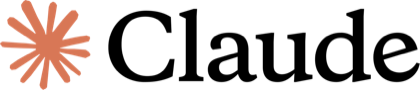
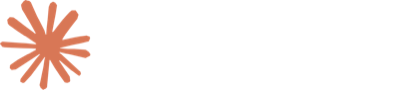
Partnerlogo's Indexworld en Uncanny in kleur
Uncanny: hun eigen donkere-grondversies. Claude en QuickBooks: merkkleur blijft, alleen zwarte letters wit. Sage in de huidige merkgroen.
Proef: eis 'partnerlogo's in kleur' rood op main (1cd990d), alles groen op deze tak.

Changed region(s): [[0.2476, 0.0889, 1.0, 0.9333]]

diff --git a/proposal/SamenEnVeilig.tsx b/proposal/SamenEnVeilig.tsx
@@ -51,7 +51,8 @@ const TEKST = {
 // 19 oktober 2026 (Marinus): "Graag bij Uncanny en Indexworld nog deze balkjes en partners duidelijk maken waarom het een
 // waardevolle toevoeging is om hun erbij te betrekken." De balkjes zijn hun eigen partnerrijen (indexworld.net "Our trusted
 // partners", uncannycs.com "Partnered with"; hun Odoo-, Shopify-, Salesforce- en Adobe-logo hebben het partnerniveau
-// al in het beeld, dus geen onderschrift); de cijfers staan zo op hun eigen homepage (nagelezen 19 oktober 2026).
+// al in het beeld, dus geen onderschrift). Marinus, zelfde avond: "Graag logo's gewoon in kleur." Dus de merkkleuren, met
+// alleen zwarte letters omgezet naar wit (Claude, QuickBooks) en de donkere-grondversies van Uncanny; de cijfers staan zo op hun eigen homepage (nagelezen 19 oktober 2026).
 const SAMEN = [
   {
     naam: "Indexworld", href: "https://indexworld.net", logo: "/images/home-header/indexworld.png", wit: true, product: "os",
@@ -59,10 +60,10 @@ const SAMEN = [
     tekst: "Indexworld is een Odoo-partner onder leiding van registeraccountants (CPA) in de VS. Zij zorgen dat je cijfers in het OS kloppen en halen je boekhouding veilig over uit QuickBooks of Sage.",
     cijfers: ["150+ klanten", "3 continenten", "Geleid door CPA's"],
     partners: [
-      { naam: "Claude", src: "/images/partners/samen/claude.png", wit: true },
-      { naam: "Odoo", src: "/images/partners/samen/odoo-partner.webp", wit: true, sub: "Partner" },
-      { naam: "Sage", src: "/images/partners/samen/sage.svg", wit: true },
-      { naam: "QuickBooks", src: "/images/partners/samen/quickbooks.webp", wit: true },
+      { naam: "Claude", src: "/images/partners/samen/claude.png" },
+      { naam: "Odoo", src: "/images/partners/samen/odoo-partner.webp", sub: "Partner" },
+      { naam: "Sage", src: "/images/partners/samen/sage.svg" },
+      { naam: "QuickBooks", src: "/images/partners/samen/quickbooks.png" },
     ],
   },
   {
@@ -122,7 +123,7 @@ export default function SamenEnVeilig() {
                   <span>{t.partnersLabel}</span>
                   <ul>
                     {b.partners.map(p => (
-                      <li key={p.naam}><img className={"wit" in p && p.wit ? "sn-samen-wit" : undefined} src={p.src} alt={p.naam} loading="lazy" />{"sub" in p && <small>{p.sub}</small>}</li>
+                      <li key={p.naam}><img src={p.src} alt={p.naam} loading="lazy" />{"sub" in p && <small>{p.sub}</small>}</li>
                     ))}
                   </ul>
                 </div>

diff --git a/proposal/samen-en-veilig.css b/proposal/samen-en-veilig.css
@@ -63,7 +63,6 @@
 .sn-samen-balk ul{display:flex;flex-wrap:wrap;align-items:center;gap:10px 22px;margin:0;padding:0;list-style:none}
 .sn-samen-balk li{display:flex;flex-direction:column;align-items:center;gap:4px}
 .sn-samen-balk img{display:block;height:24px;width:auto;max-width:124px;object-fit:contain;opacity:.92}
-.sn-samen-balk img.sn-samen-wit{filter:brightness(0) invert(1)}
 .sn-samen-balk small{font-family:var(--s-mono);font-size:8.5px;letter-spacing:.06em;text-transform:uppercase;color:var(--s-grijs);white-space:nowrap}
 @media(max-width:560px){.sn-samen-balk{flex-direction:column;align-items:flex-start;gap:10px}.sn-samen-balk ul{gap:12px 18px}}
 .sn-samen-wrap>.sn-samen-docs{align-self:start}
